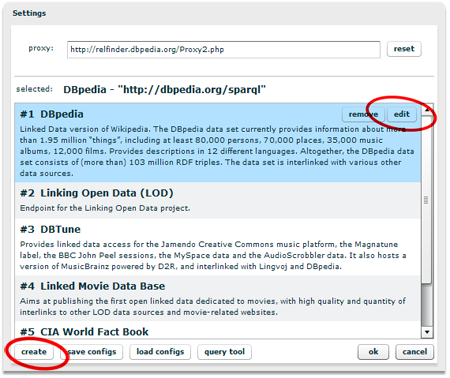
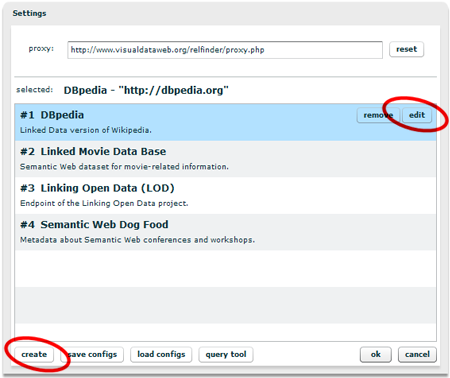
furtehr adaptations and updates to Visual Data Web project

diff --git a/bin/releases.html b/bin/releases.html
@@ -7,9 +7,15 @@
 
 <body>
 <h2>Release History</h2>
-<p>Note: An update to the latest RelFinder version usually just requires an exchange of the SWF file.<br />
-  <br />
-  --<br />
+<p>Note: An update to the latest RelFinder version usually just requires to exchange the SWF file.<br />
+</p>
+<p>--<br />
+Release - version 1.3 (2011/04/06):</p>
+<ul>
+  <li>Graphics and information adapted to Visual Data Web project</li>
+  <li>Config.xml adapted to the domain of the Visual Data Web project</li>
+</ul>
+<p>--<br />
 Release - version 1.2 (2010/11/02):</p>
 <ul>
   <li>Flex 3.5 compliant</li>
